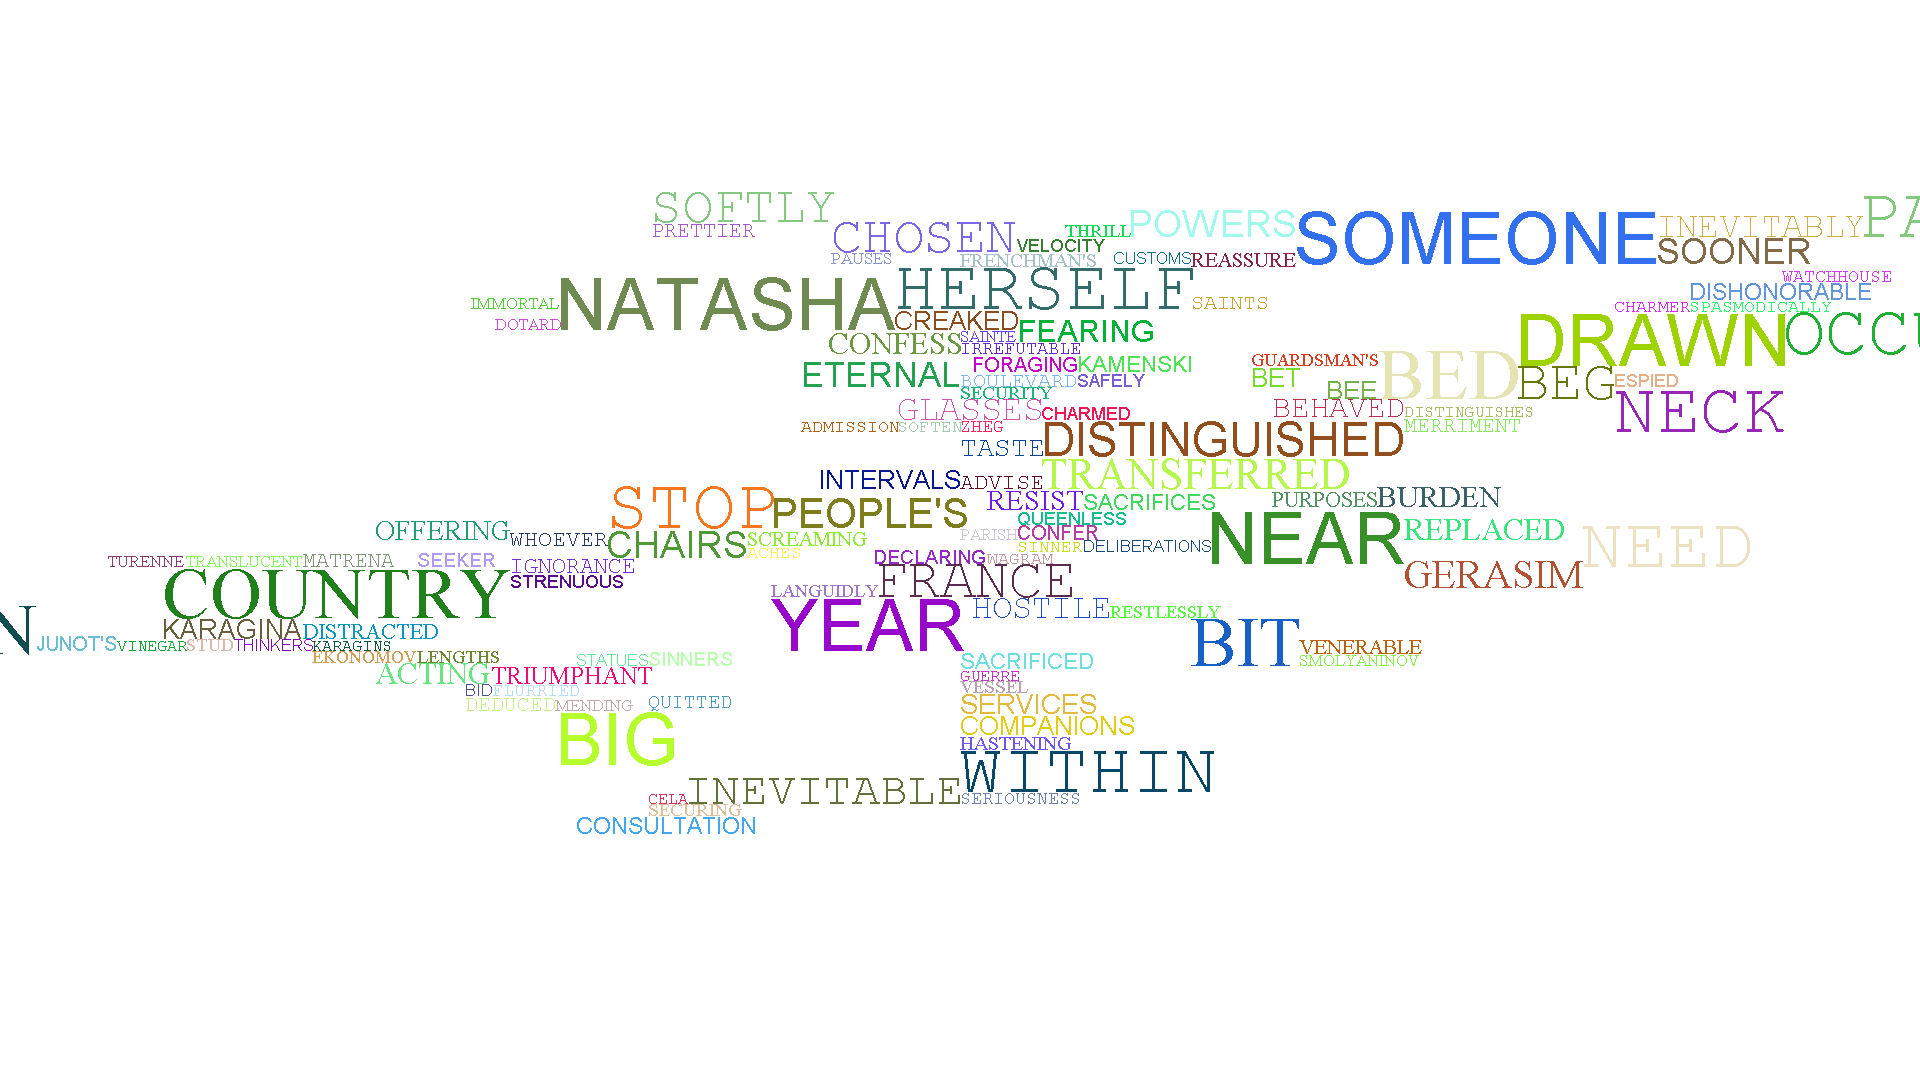
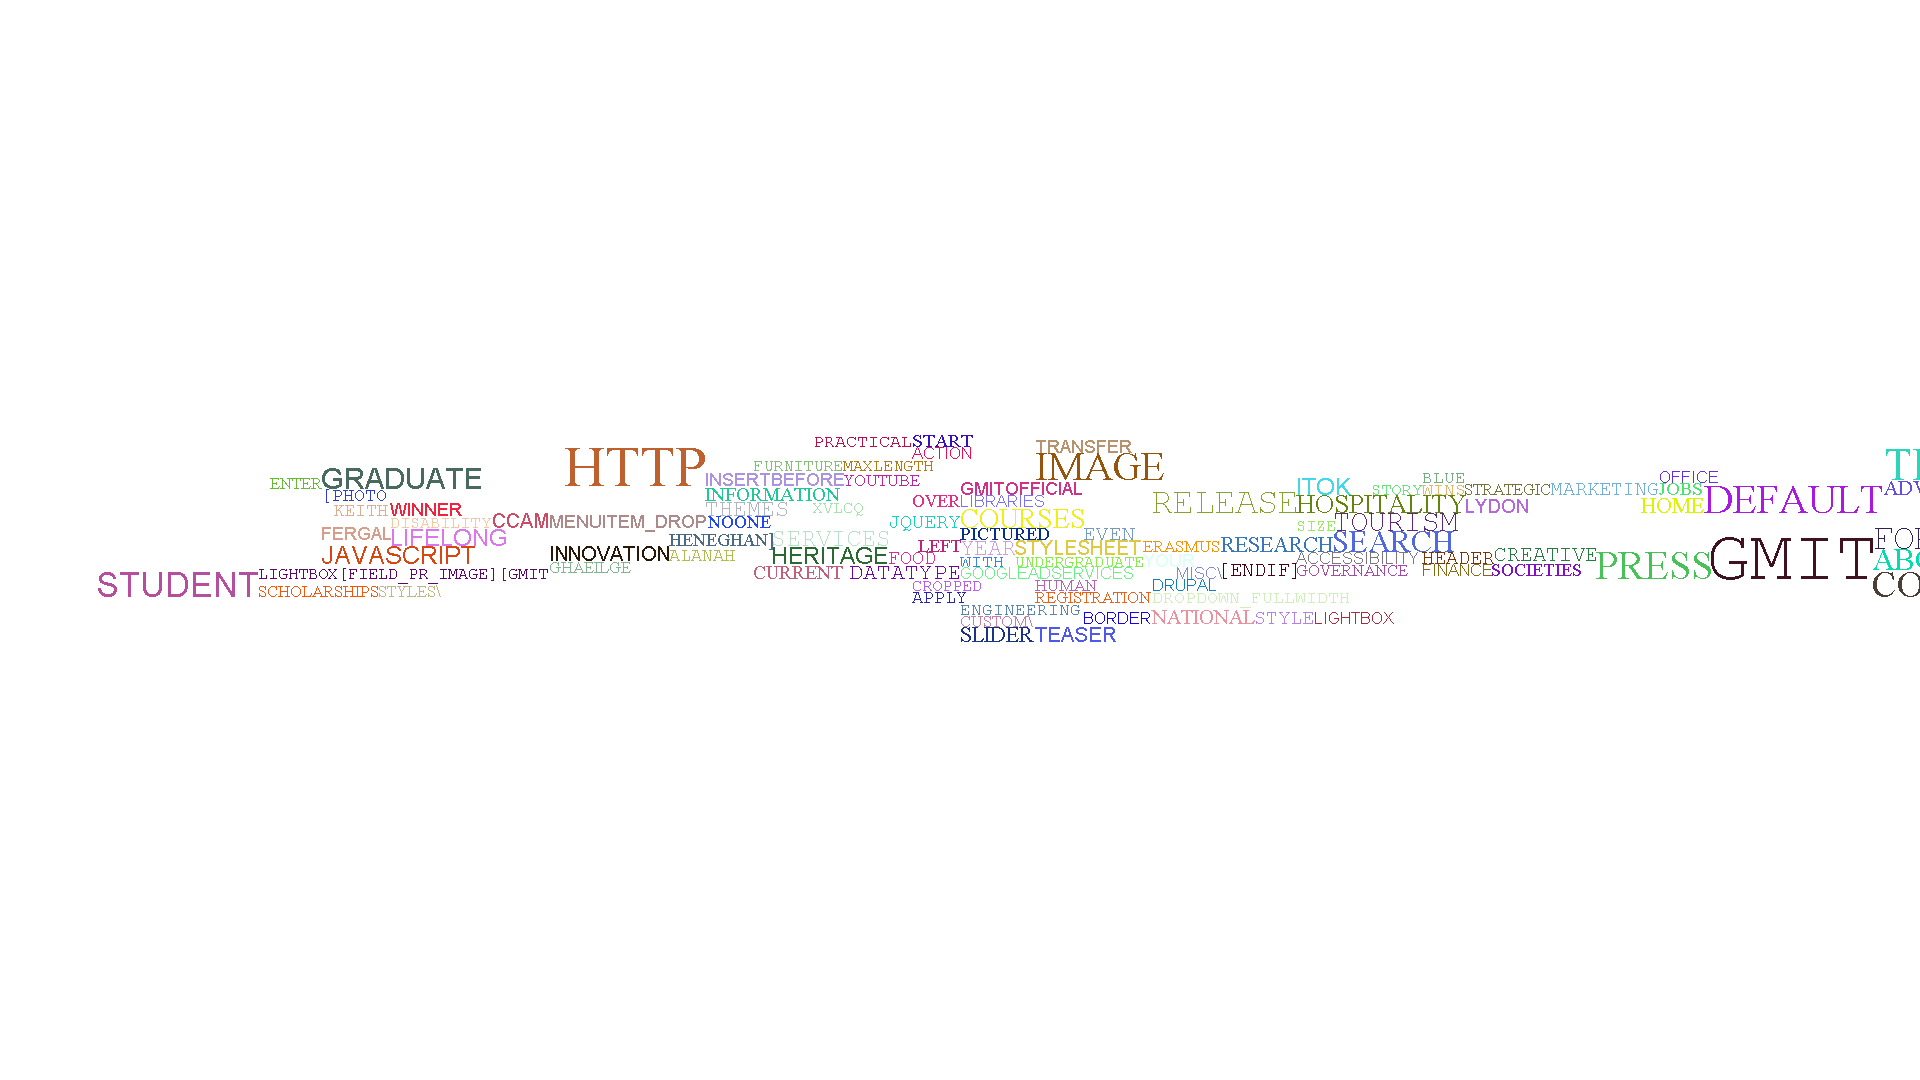
Minor changes, more comments

diff --git a/src/ie/gmit/sw/URLParser.java b/src/ie/gmit/sw/URLParser.java
@@ -6,21 +6,21 @@ import java.net.URL;
 import java.util.HashMap;
 import java.util.Map;
 
-public class URLParser {
+public class URLParser implements Parsable {
 	
 	private URL url;
 	private Map<String, Integer> wordMap;
 	private StopWords stopWords;
 	
-	public URLParser(StopWords s)
+	public URLParser(StopWords sw)
 	{
 		wordMap = new HashMap<String, Integer>();
-		this.stopWords = s;
-		System.out.println("Main Map finished...");
+		this.stopWords = sw;
+		System.out.println("WordCloudMap finished...");
 	}
-	public void parse(String urlString) throws Exception
+	public void parseFile(String urlStr) throws Exception
 	{
-		url = new URL(urlString);
+		url = new URL(urlStr);
 		BufferedReader in = new BufferedReader(new InputStreamReader(url.openStream()));
 		StringBuffer sb = new StringBuffer();
 	    int j;
@@ -39,7 +39,7 @@ public class URLParser {
 				
 				// Checks the list of stop words
 				// If word not there, add to map
-				if (!stopWords.hasWord(word)&& word.length() > 1) 
+				if (!stopWords.hasWord(word)&& word.length() > 3) 
 				{
 					int frequency = 0;
 					if(wordMap.containsKey(word))
@@ -59,5 +59,4 @@ public class URLParser {
 	{
 		return wordMap;
 	}
-
 }

diff --git a/src/ie/gmit/sw/FontColour.java b/src/ie/gmit/sw/FontColour.java
@@ -28,24 +28,22 @@ public class FontColour
 	}
 	public void setSize(int size)
 	{
-		//sets the size of the font, when the input size
-		//is over a certain size the size is changed to 
-		//avoid words taking up the whole screen
+		//Bigger words are given a smaller font to fit on the image
 		if(size>72)
 		{
-			size =72;
+			size = 72;
 		}
 		if(size>120)
 		{
-			size =100;
+			size = 100;
 		}
 		if(size > 500)
 		{
-			size =200;
+			size = 200;
 		}
 		if(size>1000)
 		{
-			size =300;
+			size = 300;
 		}
 		fontSize = (int)(size);
 		
@@ -63,14 +61,14 @@ public class FontColour
 
 	private Color getRandomColor()
 	{		
-		//returns a new colour with a random RGB
+		//Randomizes the colour of the font for the word cloud
 		return new Color((int)(Math.random()*256), (int)(Math.random()*256), (int)(Math.random()*256));
 	}
 	
 	private String randomFont()
 	{
 		Random random = new Random();
-		//returns random font styles
+		//Random font style
 		switch(random.nextInt(3))
 		{
 		case 0:

diff --git a/src/ie/gmit/sw/FileParser.java b/src/ie/gmit/sw/FileParser.java
@@ -8,18 +8,19 @@ import java.util.*;
 public class FileParser implements Parsable
 {
 	private Map<String, Integer> wordMap;
-	private StopWords s;
+	private StopWords stopWords;
 	
-	public FileParser(StopWords s)
+	public FileParser(StopWords sw)
 	{
 		wordMap = new HashMap<String, Integer>();
-		this.s = s;
+		this.stopWords = sw;
 	}
 	public void parseFile(String filename) throws Exception 
 	{
 		BufferedReader br = new BufferedReader(new InputStreamReader(new FileInputStream(filename)));
 		StringBuffer sb = new StringBuffer();
 		
+		//Adapted from DS assignment.
 		int j;
 		// End of file while loop
 		while((j = br.read()) != -1){
@@ -36,7 +37,7 @@ public class FileParser implements Parsable
 				
 				// Checks if the word is a stop word
 				// if not, adds them to map
-				if (!s.hasWord(word)&& word.length() > 1) 
+				if (!stopWords.hasWord(word)&& word.length() > 3) 
 				{
 					int frequency = 0;
 					if(wordMap.containsKey(word))

diff --git a/src/ie/gmit/sw/StopWords.java b/src/ie/gmit/sw/StopWords.java
@@ -9,7 +9,7 @@ public class StopWords implements Parsable
 	
 	public StopWords(String filename) throws Exception
 	{
-		//Creates a hashset of common words such as 'and' or 'the' because we
+		//Creates a set of common words such as 'and' or 'the' because we
 		//don't want these words in the word cloud
 		stopWordsSet = new HashSet<String>();
 		try

diff --git a/src/ie/gmit/sw/WordCloudMap.java b/src/ie/gmit/sw/WordCloudMap.java
@@ -22,7 +22,7 @@ public class WordCloudMap {
 			//If URL
 			else
 			{
-				//parse = new UrlParser(sw);
+				parse = new URLParser(sw);
 			}
 			createMap();
 		}
